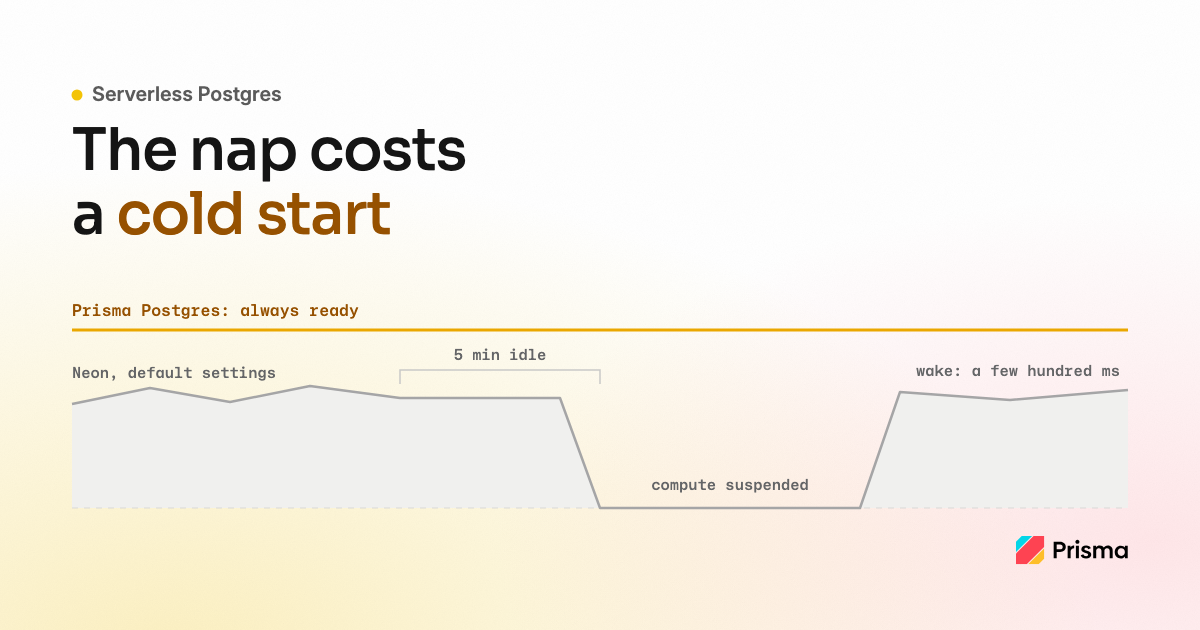
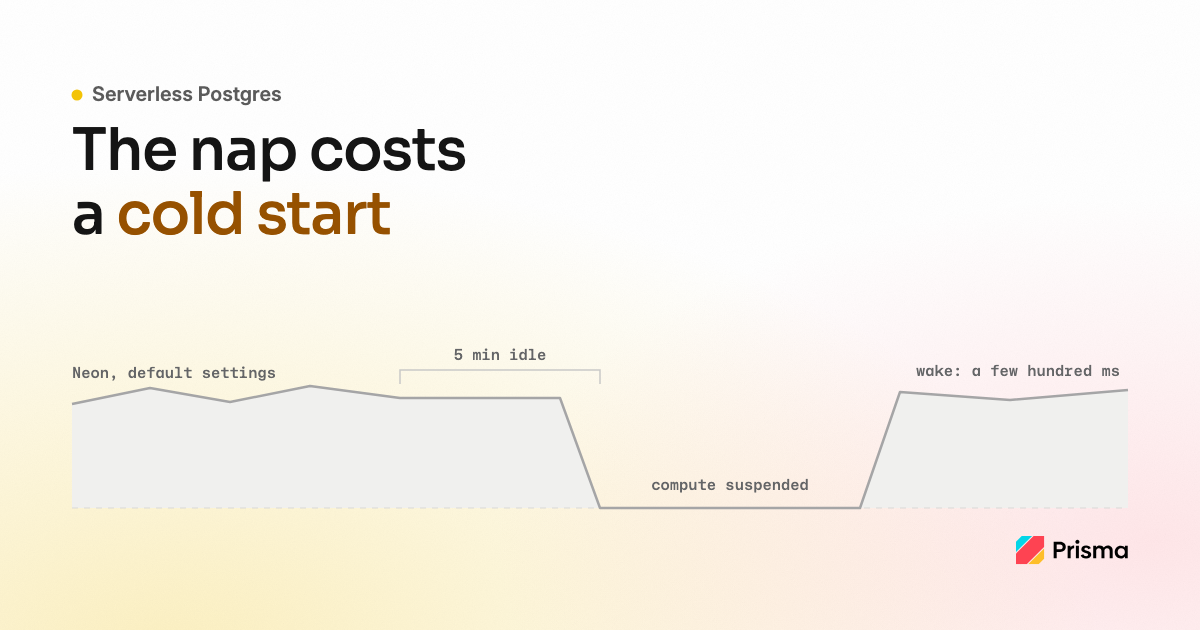
blog: drop undocumented idle claims for Prisma Postgres in serverless guide
The serverless Postgres guide said Prisma Postgres is always ready, with
no wake delay after idle. The Prisma Postgres docs and pricing page do
not state that, so the first table, idle section, profile, FAQ, bottom
line, decision tree and cover image drop it. The Prisma Postgres rows now
say its docs don't describe scale-to-zero or a wake time, as the
PlanetScale rows do. meta.png is re-rendered from the edited hero.svg.

Changed region(s): [[0.0617, 0.4825, 0.9558, 0.5429]]

diff --git a/apps/blog/src/components/ServerlessPostgresChooser.tsx b/apps/blog/src/components/ServerlessPostgresChooser.tsx
@@ -22,7 +22,7 @@ const tree: DecisionTreeData = {
       id: "free-ppg",
       accent: true,
       title: "Prisma Postgres",
-      why: "200k operations, 2 GB and 50 databases per month free, with no card. Always ready, with no cold starts (our own architecture claim).",
+      why: "200k operations, 2 GB and 50 databases per month free, with no card.",
       caveat: "Grows into $10/month for 1M operations. Prisma publishes this guide.",
     },
     {
@@ -122,7 +122,7 @@ const tree: DecisionTreeData = {
       id: "r-ppg",
       accent: true,
       title: "Prisma Postgres",
-      why: "Operation-based billing fits this shape: the database is always ready (no cold starts, by our own architecture claim), idle time costs nothing extra, and up to about 10M queries a month stays inside the plan allowances ($10 covers 1M, $49 covers 10M).",
+      why: "Operation-based billing fits this shape: idle time costs nothing extra, and up to about 10M queries a month stays inside the plan allowances ($10 covers 1M, $49 covers 10M).",
       caveat:
         "Prisma publishes this guide, so hold this recommendation to the same skepticism as the rest. Past roughly 24M queries a month the guide's own worked example shows an always-on Neon compute becomes cheaper.",
     },
@@ -137,7 +137,7 @@ const tree: DecisionTreeData = {
       id: "x-ppg",
       title: "Prisma Postgres, higher tier",
       accent: true,
-      why: "$1 per million operations at the top tier ($129/month with 50M included), always ready with no cold starts (our own claim).",
+      why: "$1 per million operations at the top tier ($129/month with 50M included).",
       caveat:
         "Compare against the dedicated-instance options at your exact query count. Prisma publishes this guide.",
     },
